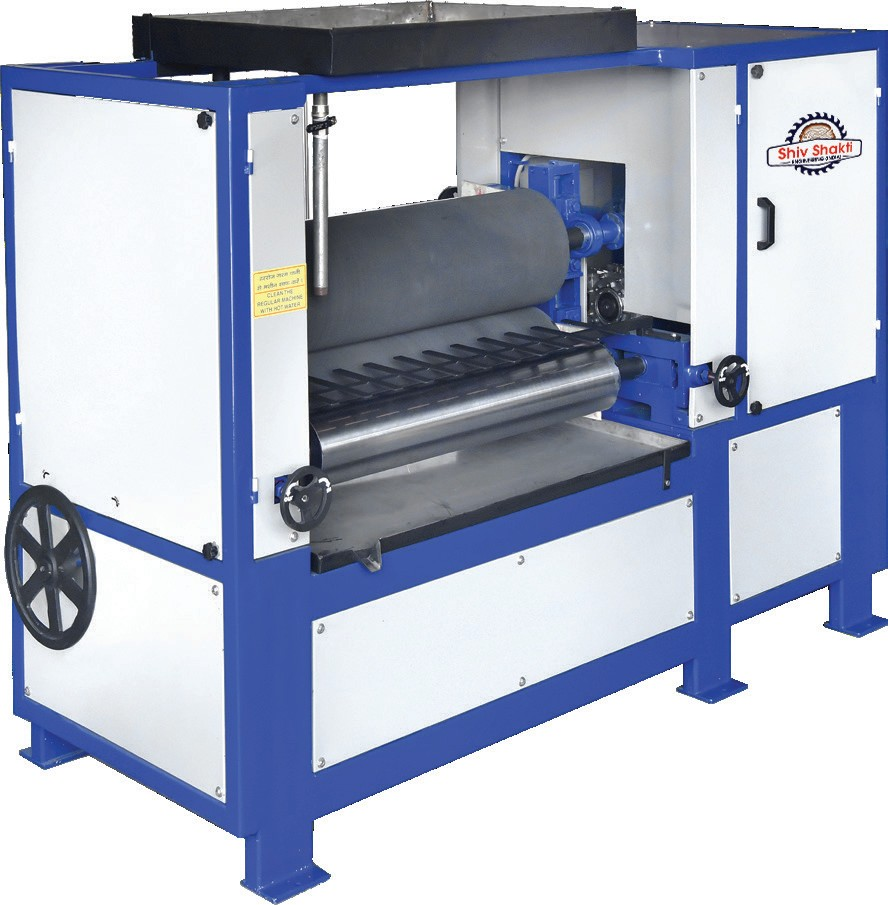
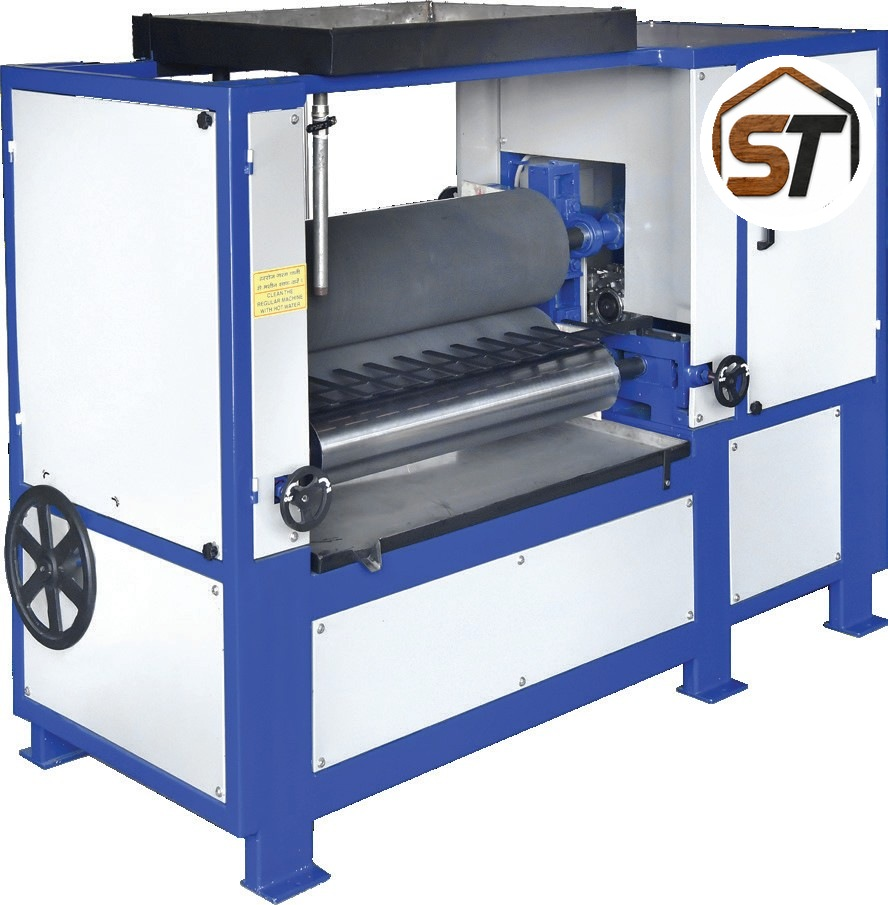
Replace Shiv Shakti marks on homepage product photos with SHIV TECH branding.

Changed region(s): [[0.7905, 0.0619, 0.973, 0.2785]]

diff --git a/src/components/home/ProductsPreview.tsx b/src/components/home/ProductsPreview.tsx
@@ -114,7 +114,7 @@ const ProductsPreview = () => {
                 <div className="relative h-64 overflow-hidden">
                   <motion.img
                     src={product.image}
-                    alt={`${product.name} - Plywood machinery by Shiv Shakti Engineering`}
+                    alt={`${product.name} - Plywood machinery by SHIV TECH`}
                     className="w-full h-full object-cover"
                     whileHover={{ scale: 1.1 }}
                     transition={{ duration: 0.6 }}
